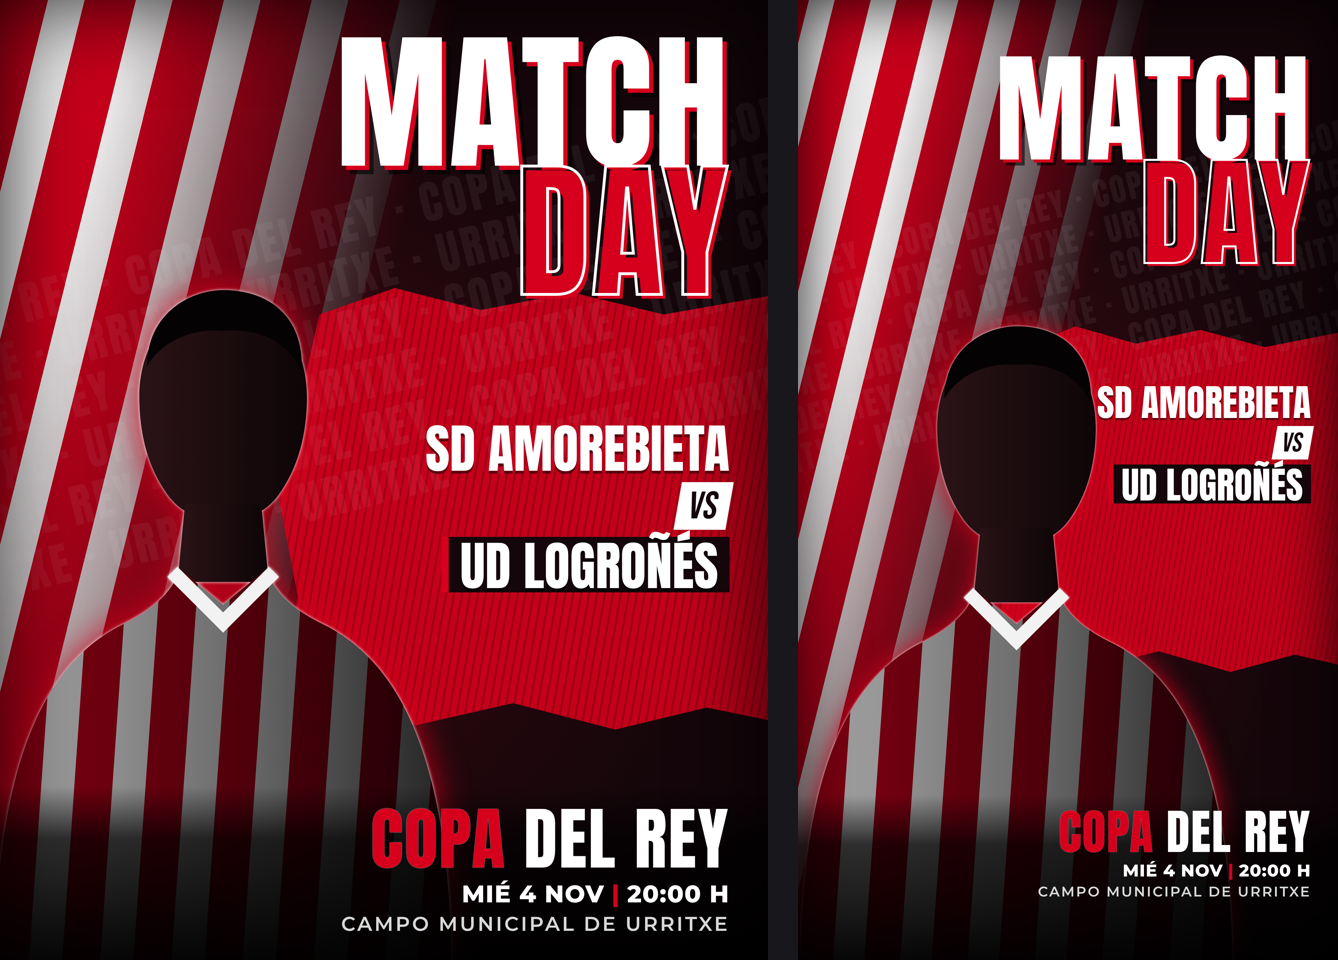
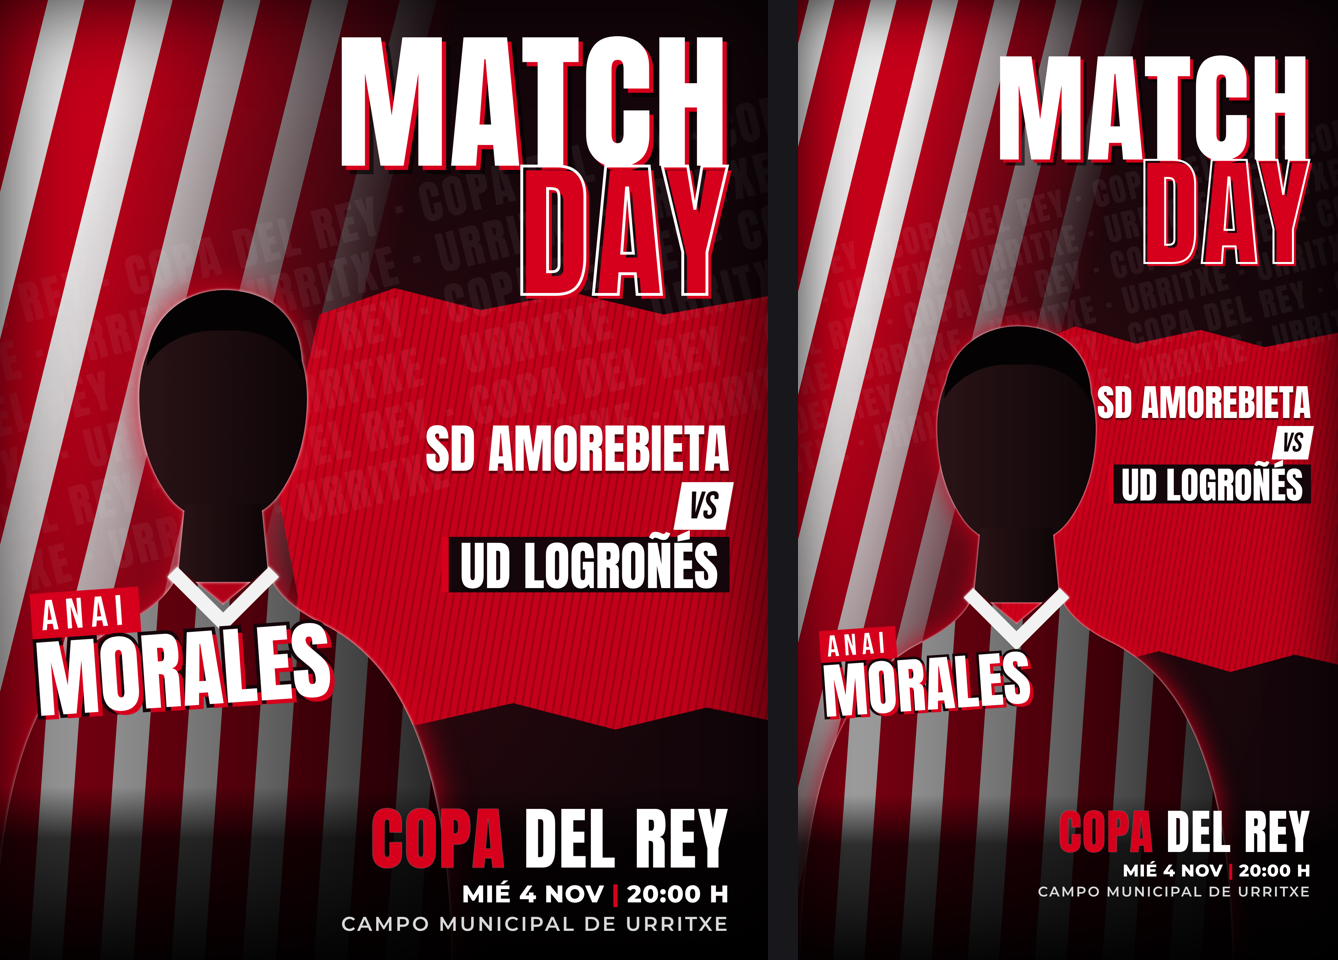
Match Day Logroñés: añadir el nombre de Anai Morales
Claude-Session: https://claude.ai/code/session_01Q54DXVH7GopsR3mpjPBNRA

Changed region(s): [[0.0, 0.5938, 0.2758, 0.75], [0.6129, 0.6562, 0.7967, 0.75]]

diff --git a/miniaturero/salida/2026-11-01_matchday-logrones/proyecto/matchday.html b/miniaturero/salida/2026-11-01_matchday-logrones/proyecto/matchday.html
@@ -61,6 +61,14 @@
   .pie .datos i { font-style: normal; color: var(--rojo); padding: 0 10px; }
   .pie .campo { font-family: "Montserrat"; font-weight: 600; font-size: 28px; letter-spacing: 3px; opacity: .85; margin-top: 4px; text-transform: uppercase; }
 
+  /* nombre del jugador, sobre el pecho de la silueta, a la izquierda */
+  .nombre { position: absolute; left: 5%; bottom: 25%; color: var(--blanco); transform: rotate(-4deg); transform-origin: left bottom; }
+  .nombre span { display: block; }
+  .nombre .pila { font-family: "Bebas"; font-size: 60px; letter-spacing: 10px; line-height: 1;
+    background: var(--rojo); display: inline-block; padding: 4px 14px 0 14px; }
+  .nombre .apellido { font-size: 120px; line-height: .95; -webkit-text-stroke: 10px var(--fondo); paint-order: stroke fill;
+    text-shadow: 6px 6px 0 var(--rojo); }
+
   /* formato vertical 9:16: más aire */
   @media (min-aspect-ratio: 0/1) and (max-aspect-ratio: 10/16) {
     .titulo { top: 6%; font-size: 240px; }
@@ -100,6 +108,8 @@
   </svg>
 
   <div class="vineta"></div>
+
+  <div class="nombre"><span class="pila">ANAI</span><span class="apellido">MORALES</span></div>
 
   <div class="titulo"><span>MATCH</span><span class="hueco">DAY</span></div>
 

diff --git a/miniaturero/salida/2026-11-01_matchday-logrones/notas.md b/miniaturero/salida/2026-11-01_matchday-logrones/notas.md
@@ -4,7 +4,7 @@
 - **Referencia:** póster "Match Day" de un club (solo como inspiración de composición: jugador a la izquierda, "MATCH DAY" grande arriba a la derecha, franjas en diagonal, texto repetido de fondo, competición abajo). No se ha copiado ningún elemento.
 - **Colores:** rojo #d6001c, blanco y fondo casi negro #14060a.
 - **Fuentes:** Anton y Bebas Neue (titulares), Montserrat (datos). Todas con licencia SIL OFL.
-- **Jugador:** **silueta provisional dibujada con código**. No se usa la foto de ningún jugador real sin permiso. Para ponerlo: deja la foto en `entrada/` → `mini.py recortar` → `proyecto/img/jugador.png` → sustituir el `<svg class="jugador">` por `<img class="jugador" src="img/jugador.png">`.
+- **Jugador:** Anai Morales (nombre en el póster). **Silueta provisional dibujada con código**. No se usa la foto de ningún jugador real sin permiso. Para ponerlo: deja la foto en `entrada/` → `mini.py recortar` → `proyecto/img/jugador.png` → sustituir el `<svg class="jugador">` por `<img class="jugador" src="img/jugador.png">`.
 - **Escudos:** no se han puesto (derechos de los clubes). Se añaden si los aportas y confirmas que puedes usarlos.
 
 ## Archivos
